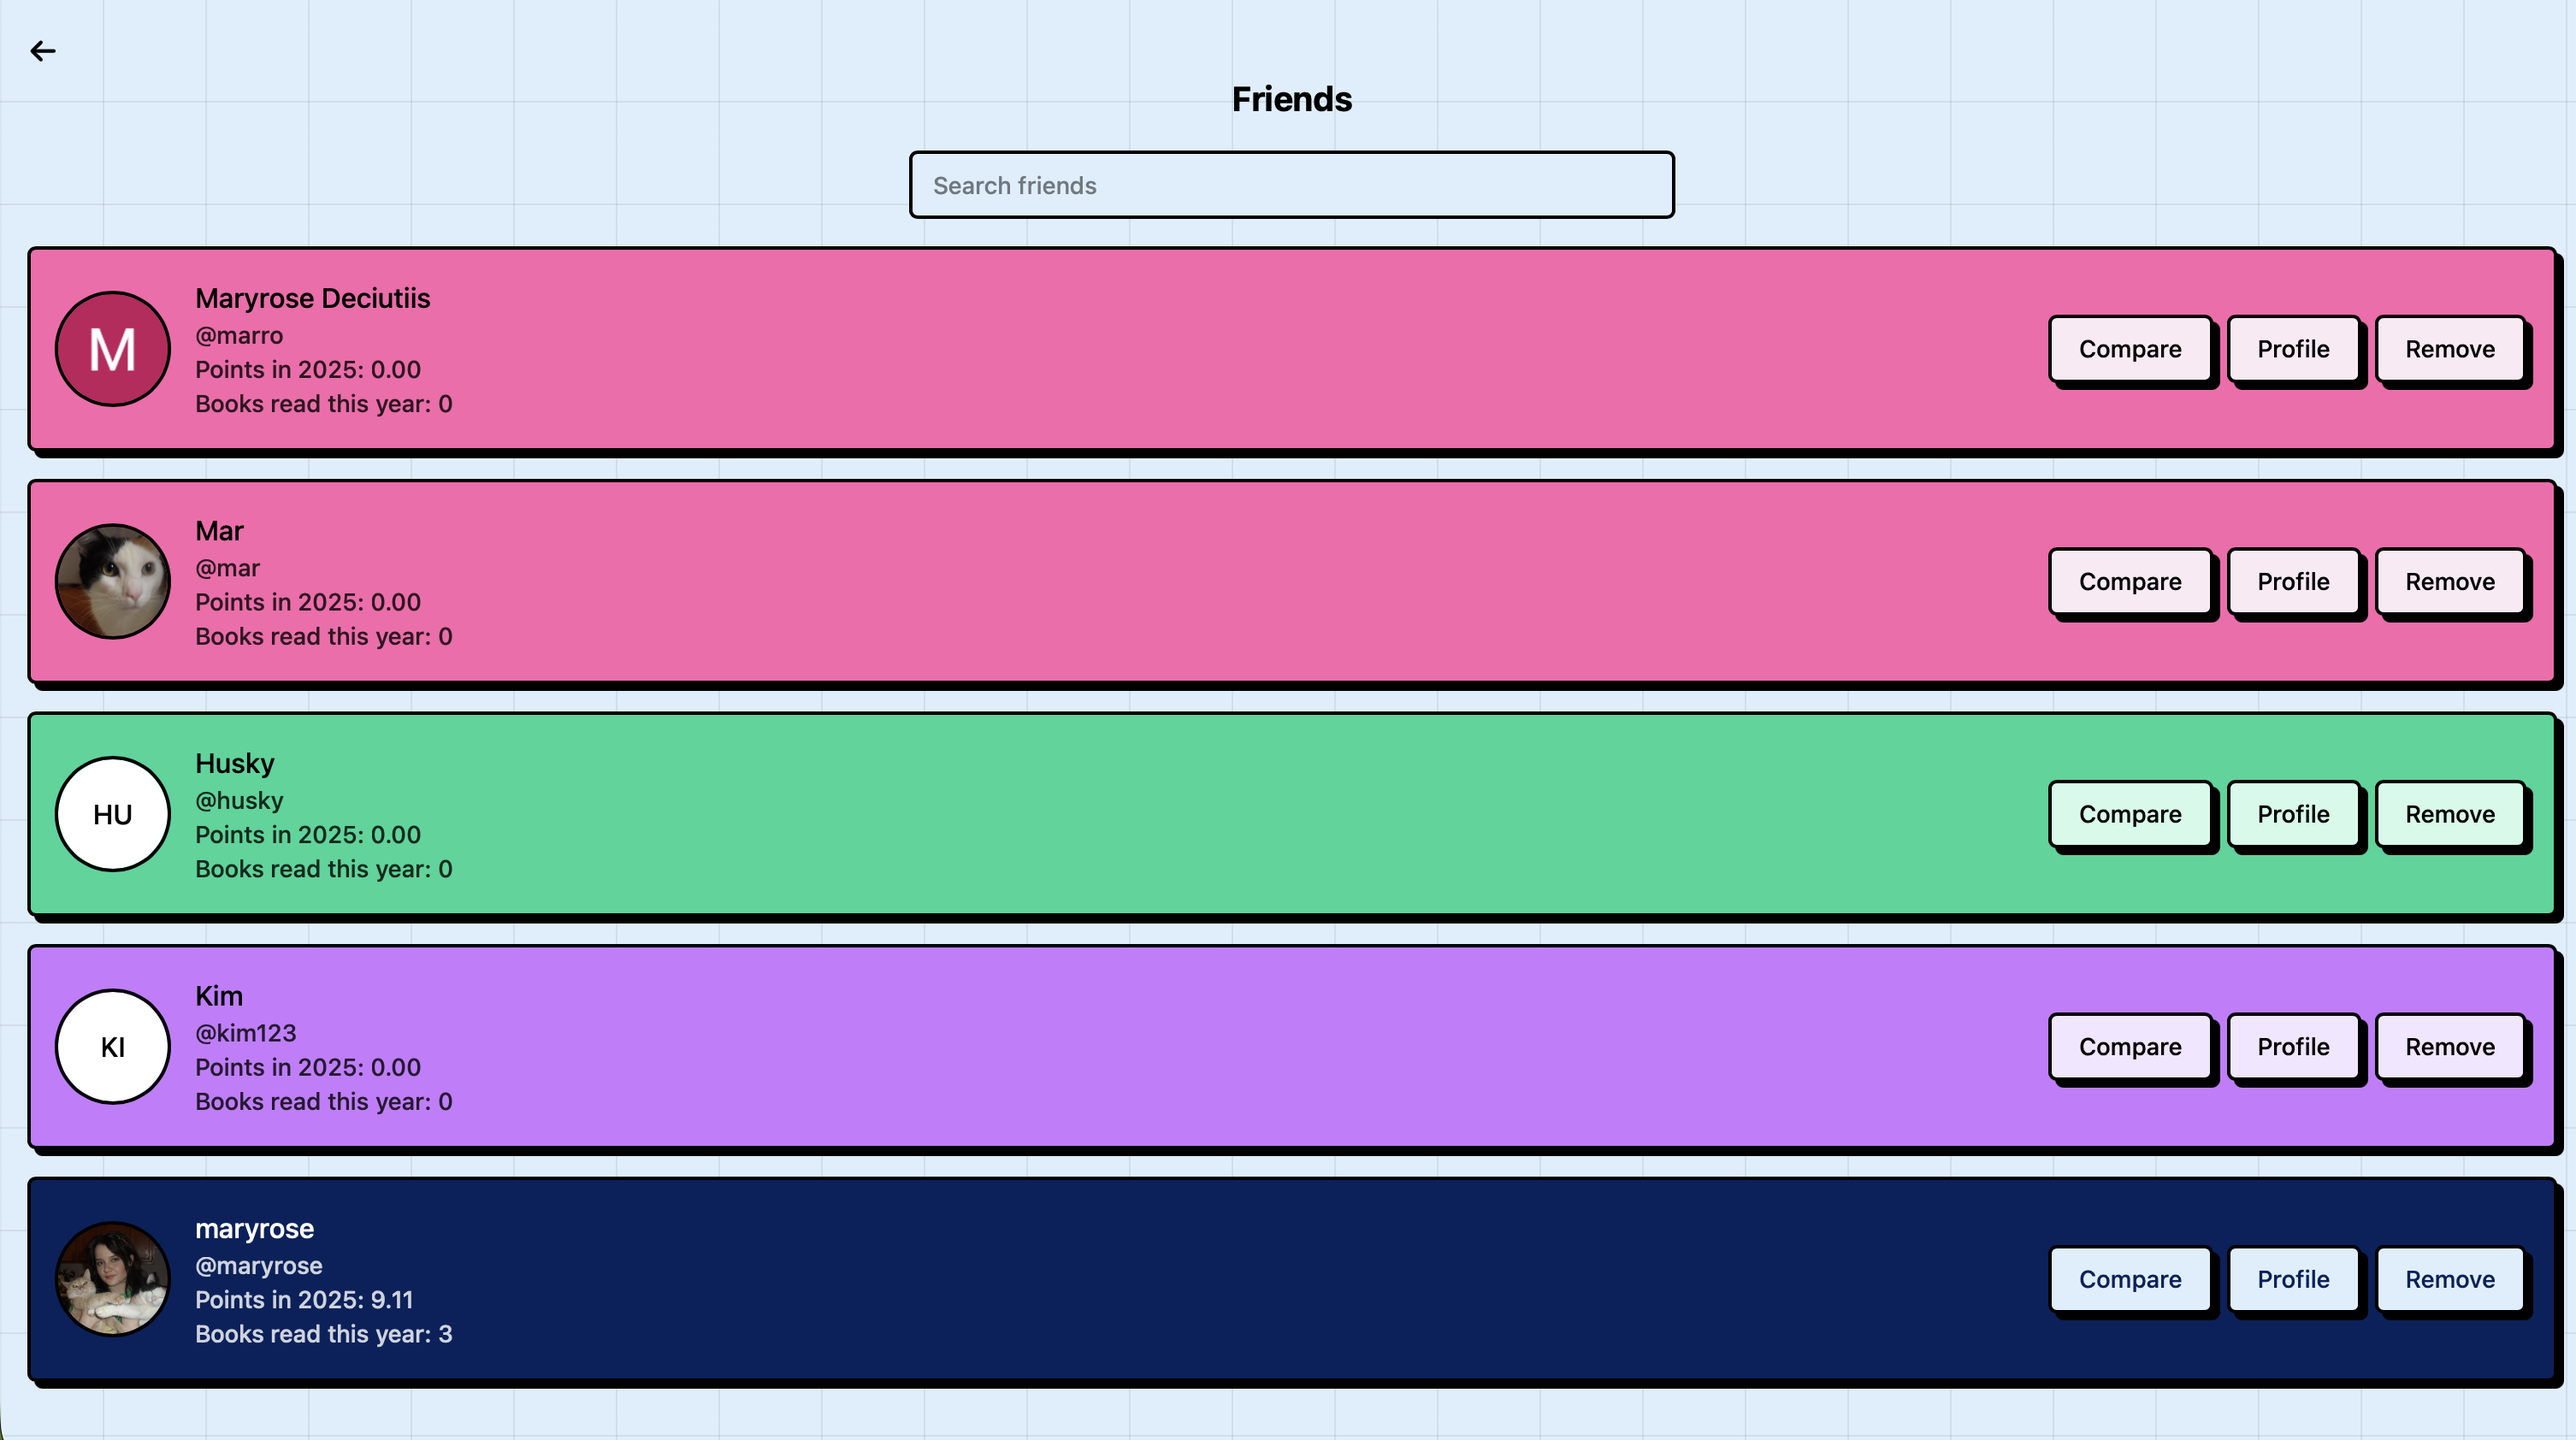
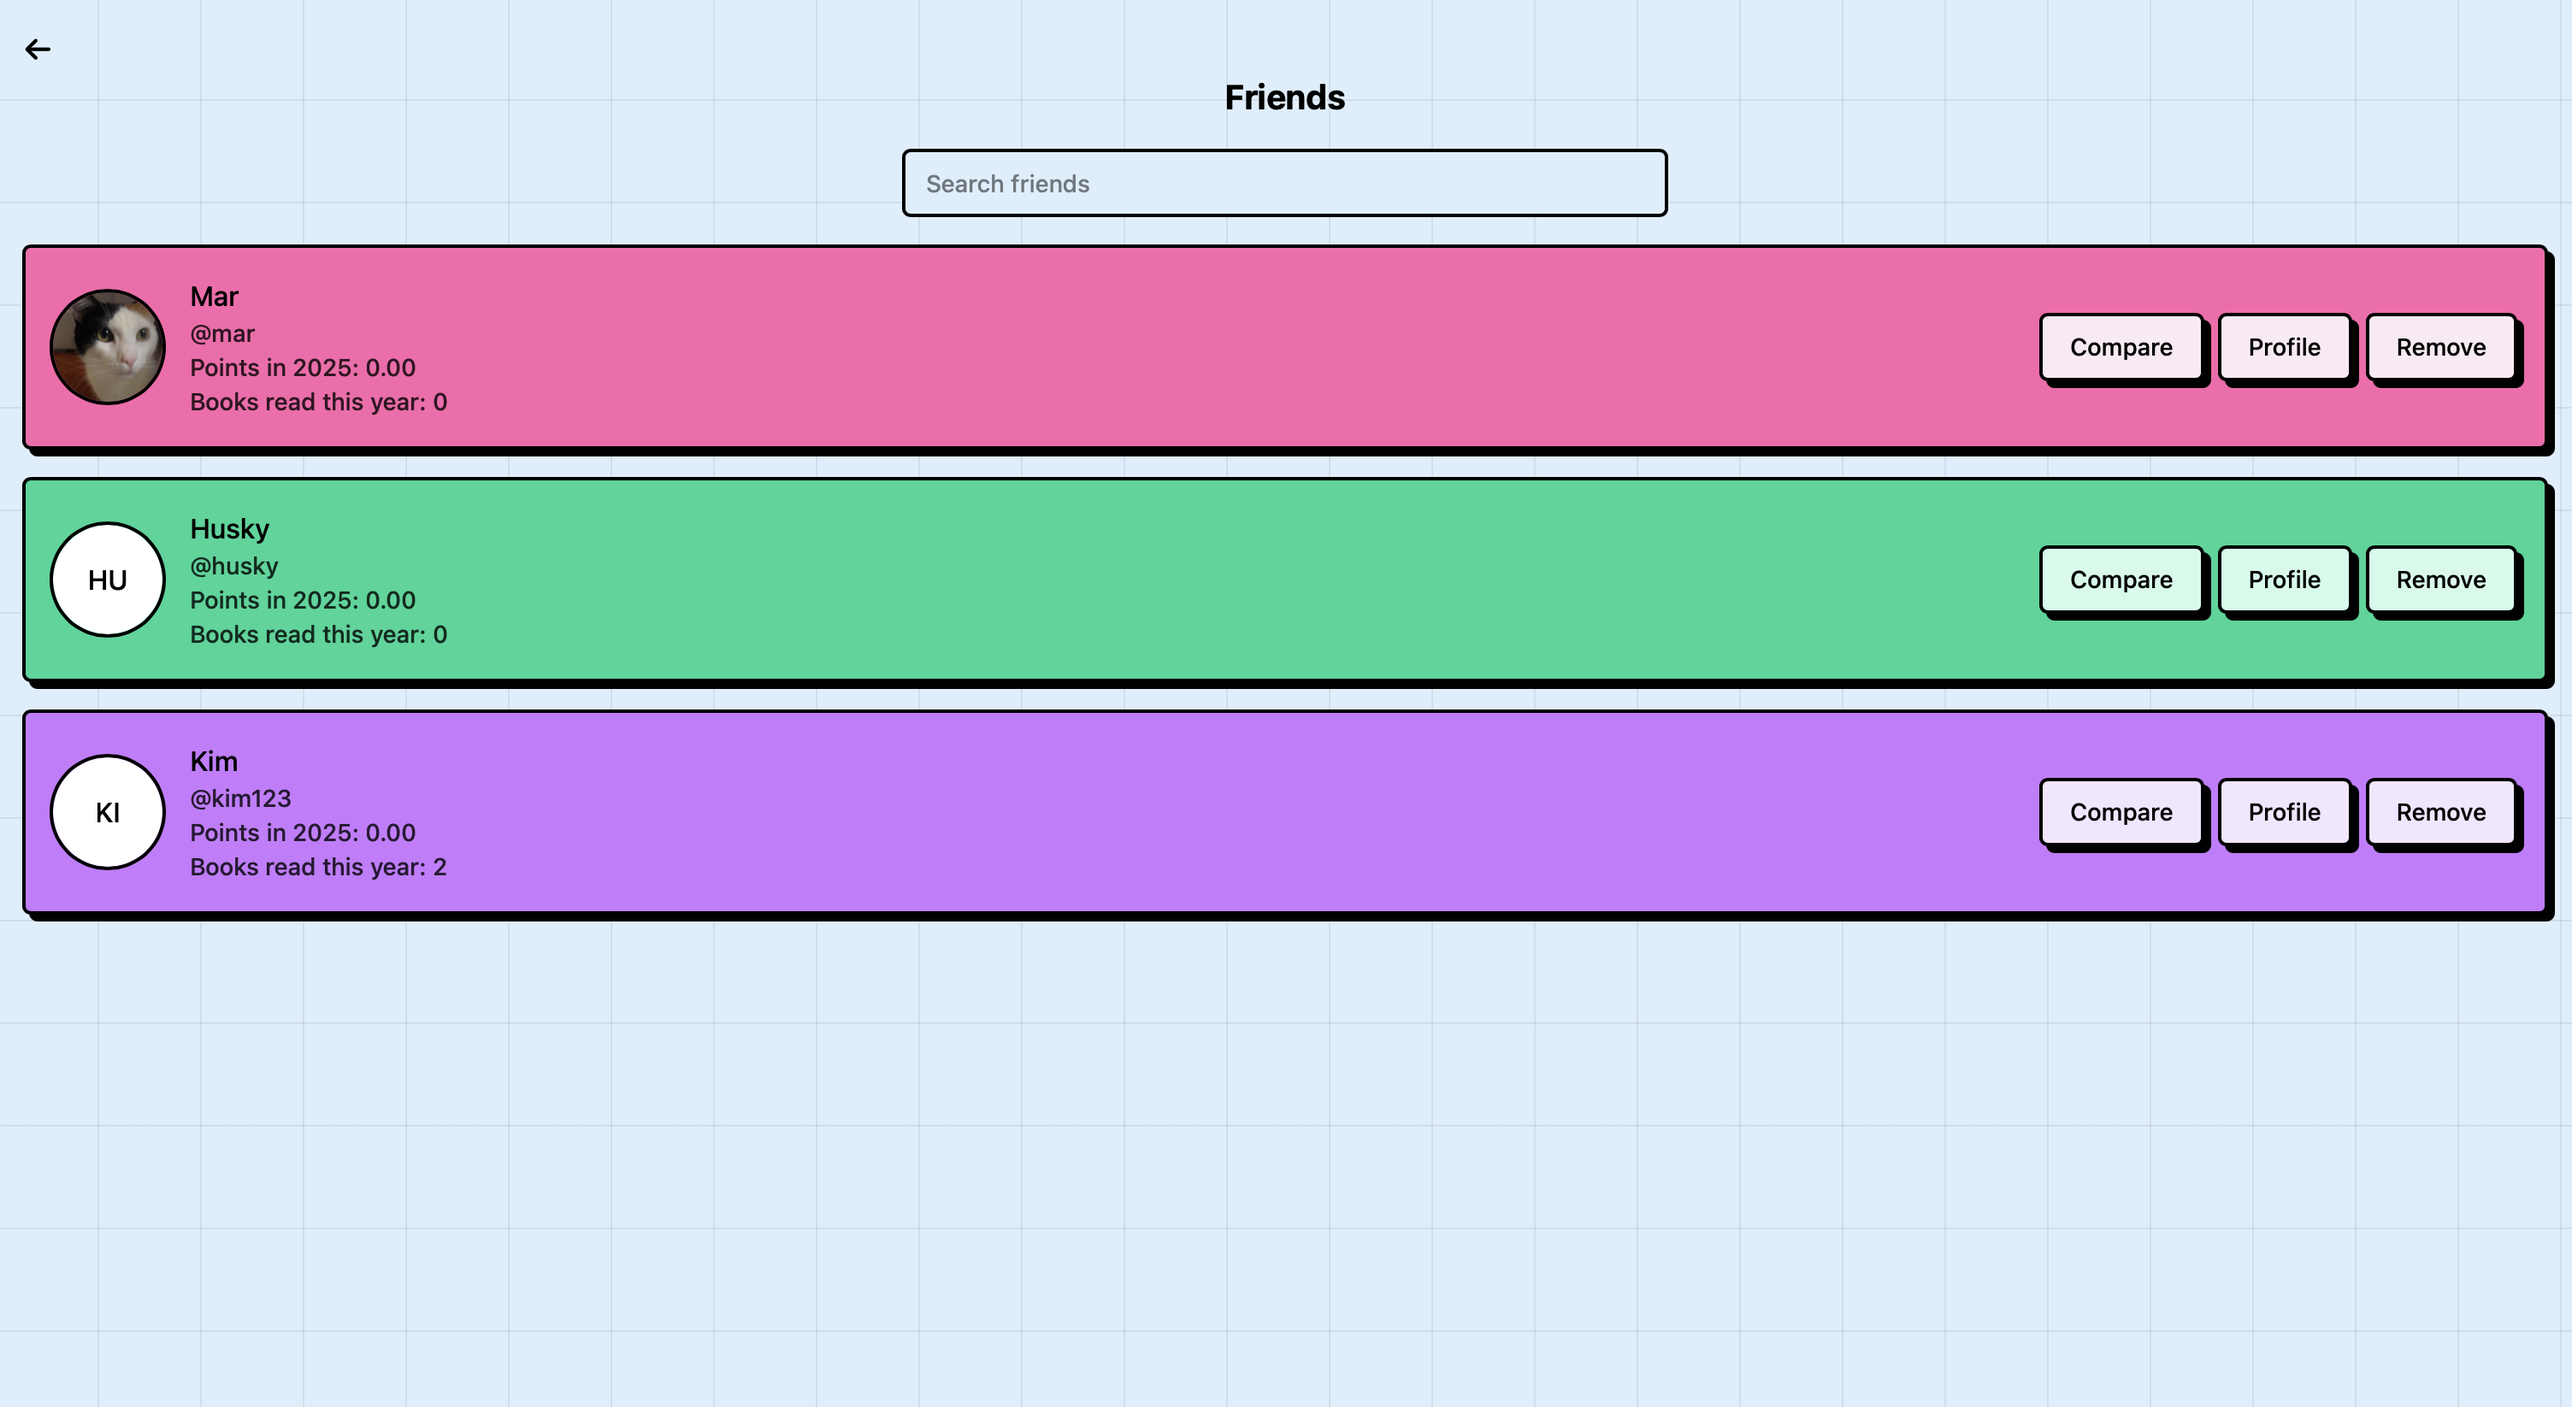
Added render warning to google log in, updated ReadMe images

diff --git a/apps/web/src/app/routes/login.tsx b/apps/web/src/app/routes/login.tsx
@@ -10,22 +10,39 @@ import { applyThemeColor } from '@/lib/theme-colors';
 export default function Login() {
   const navigate = useNavigate();
   const [demoLoading, setDemoLoading] = useState(false);
+  const [googleLoading, setGoogleLoading] = useState(false);
   const [authError, setAuthError] = useState("");
   const [showWakeUpNote, setShowWakeUpNote] = useState(false);
+  const authLoading = demoLoading || googleLoading;
 
   useEffect(() => {
     applyThemeColor('orange', false);
   }, []);
 
   useEffect(() => {
-    if (!demoLoading) return;
+    if (!authLoading) return;
 
     const wakeUpNoteTimer = window.setTimeout(() => {
       setShowWakeUpNote(true);
     }, 5000);
 
     return () => window.clearTimeout(wakeUpNoteTimer);
-  }, [demoLoading]);
+  }, [authLoading]);
+
+  const handleGoogleLogin = async (credential: string) => {
+    setGoogleLoading(true);
+    setAuthError("");
+    setShowWakeUpNote(false);
+
+    try {
+      await loginWithGoogle(credential);
+      navigate('/dashboard');
+    } catch {
+      setAuthError("Could not sign in with Google. Try again in a moment.");
+    } finally {
+      setGoogleLoading(false);
+    }
+  };
 
   const handleDemoLogin = async () => {
     setDemoLoading(true);
@@ -119,8 +136,8 @@ export default function Login() {
               <p className="text-sm opacity-80">Use your Google account to continue or create your shelf.</p>
             </div>
 
-            {showWakeUpNote && (
-              <p className="mb-4 rounded-base border border-border/60 bg-secondary-background px-3 py-2 text-xs leading-relaxed text-foreground/70">
+            {authLoading && showWakeUpNote && (
+              <p role="status" className="mb-4 rounded-base border border-border/60 bg-secondary-background px-3 py-2 text-xs leading-relaxed text-foreground/70">
                 The API is hosted on Render’s free tier and may take up to a minute to start after inactivity. Please keep this page open while the server wakes up.
               </p>
             )}
@@ -129,17 +146,16 @@ export default function Login() {
               <GoogleLogin
                 onSuccess={async (credentialResponse) => {
                   if (!credentialResponse.credential) return;
-                  await loginWithGoogle(credentialResponse.credential);
-                  navigate('/dashboard');
+                  await handleGoogleLogin(credentialResponse.credential);
                 }}
-                onError={() => undefined}
+                onError={() => setAuthError("Could not sign in with Google. Try again in a moment.")}
               />
             </div>
             <div className="mt-3 space-y-2">
               <Button
                 type="button"
                 onClick={handleDemoLogin}
-                disabled={demoLoading}
+                disabled={authLoading}
                 className="w-full bg-main text-main-foreground"
               >
                 {demoLoading ? "Loading Demo..." : "View Recruiter Demo"}
